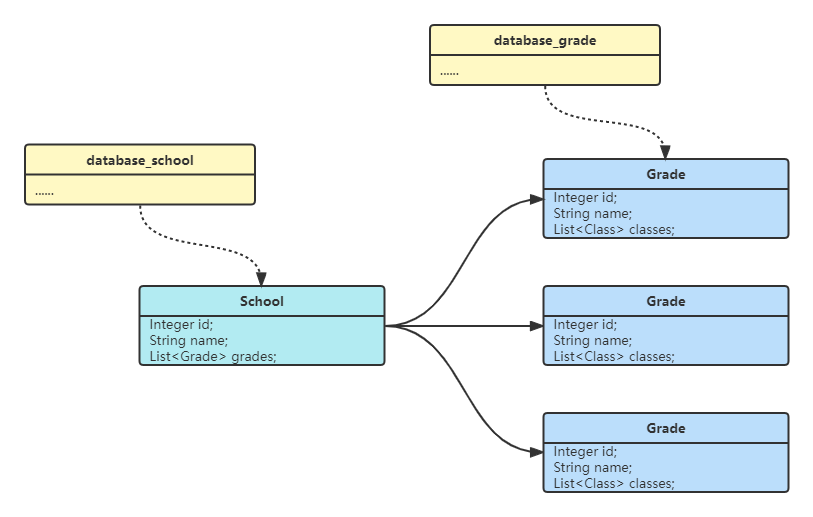
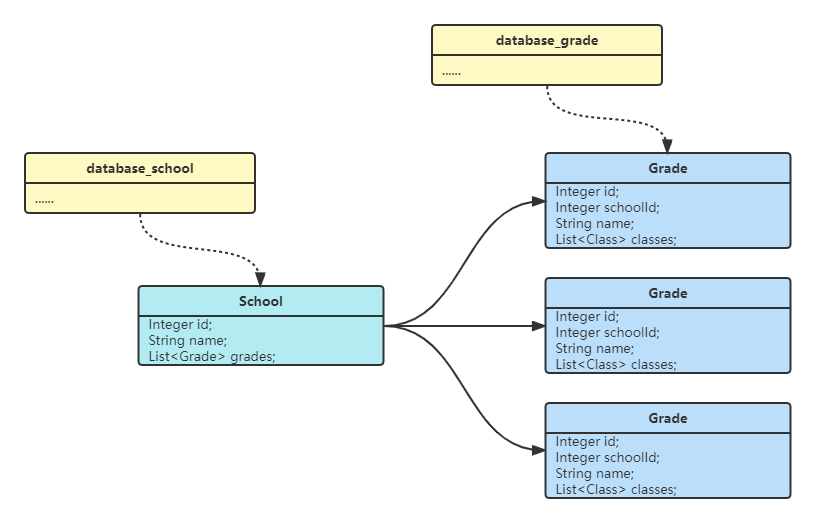
补充说明文档

diff --git a/README.md b/README.md
@@ -45,23 +45,70 @@ spring:
 
 ![avatar](https://gitee.com/digital-engine/spring-domain/raw/master/static/img/entity.png)
 
-### 代码
+名词解释：
 
-```yaml
-spring:
-  domain:
-    enable: true
-    scan: com.company.project.**        # 扫描包名
-    domains:
-      - name: dal                       # 一个名叫dal的领域
-        pattern: com.company.project.dal.**
-        protect: com.company.project.dal.mapper.** # 该领域内不建议外部直接调用的服务
-      - name: dal-domain                # 一个名叫dal-domain的领域，它是dal的子域
-        pattern: com.company.project.domain.**
-      - name: serviceA                  # 一个名叫serviceA的领域
-        pattern: com.company.project.service.a.**
-      - name: serviceB                  # 一个名叫serviceB的领域
-        pattern: com.company.project.service.b.**
-        protect: com.company.project.service.b.internal.** # 该领域内不建议外部直接调用的服务
+- School（学校）
+- Grade（年级）
+
+一个学校可以包含多个年级，一个年级可以包含多个班级，一个班级又可以包含多个学生。
+
+School实体对象的数据来源于database_school表，但字段无需完全一致。
+
+Grade实体对象的数据来源于database_grade表，但字段无需完全一致。
+
+### 创建模型
+
+```java
+@Data
+@Entity(mapper = DatabaseSchoolMapper.class)
+public class School {
+    private Integer id;
+    private String name;
+    
+    @Entity(mapper = DatabaseGradeMapper.class)
+    @Binding(field = "schoolId", bind = "./id")
+    private List<Grade> grades;
+}
 ```
 
+```java
+@Data
+public class Grade {
+    private Integer id;
+    private Integer schoolId;
+    private String name;
+	private List<Class> classes;
+}
+```
+
+### 创建仓储
+
+```java
+@Data
+@RootRepository
+@AllArgsConstructor
+@EqualsAndHashCode(callSuper = false)
+public class SchoolRepository extends MybatisPlusRepository<School, Integer> {
+}
+```
+
+### 调用仓储
+
+```java
+@Service
+@AllArgsConstructor
+public class SchoolServiceImpl implements SchoolService {
+
+    private final SchoolRepository schoolRepository;
+
+    @Override
+    public School querySchoolById(Integer id) {
+		return schoolRepository.selectByPrimaryKey(id);
+    }
+}
+```
+
+执行逻辑：
+
+- DatabaseSchoolMapper根据id，查询出DatabaseSchool实例，并映射到School实体上。
+- DatabaseGradeMapper再根据School实体的id，查询出DatabaseGrade实例，并映射到Grade实体上。
